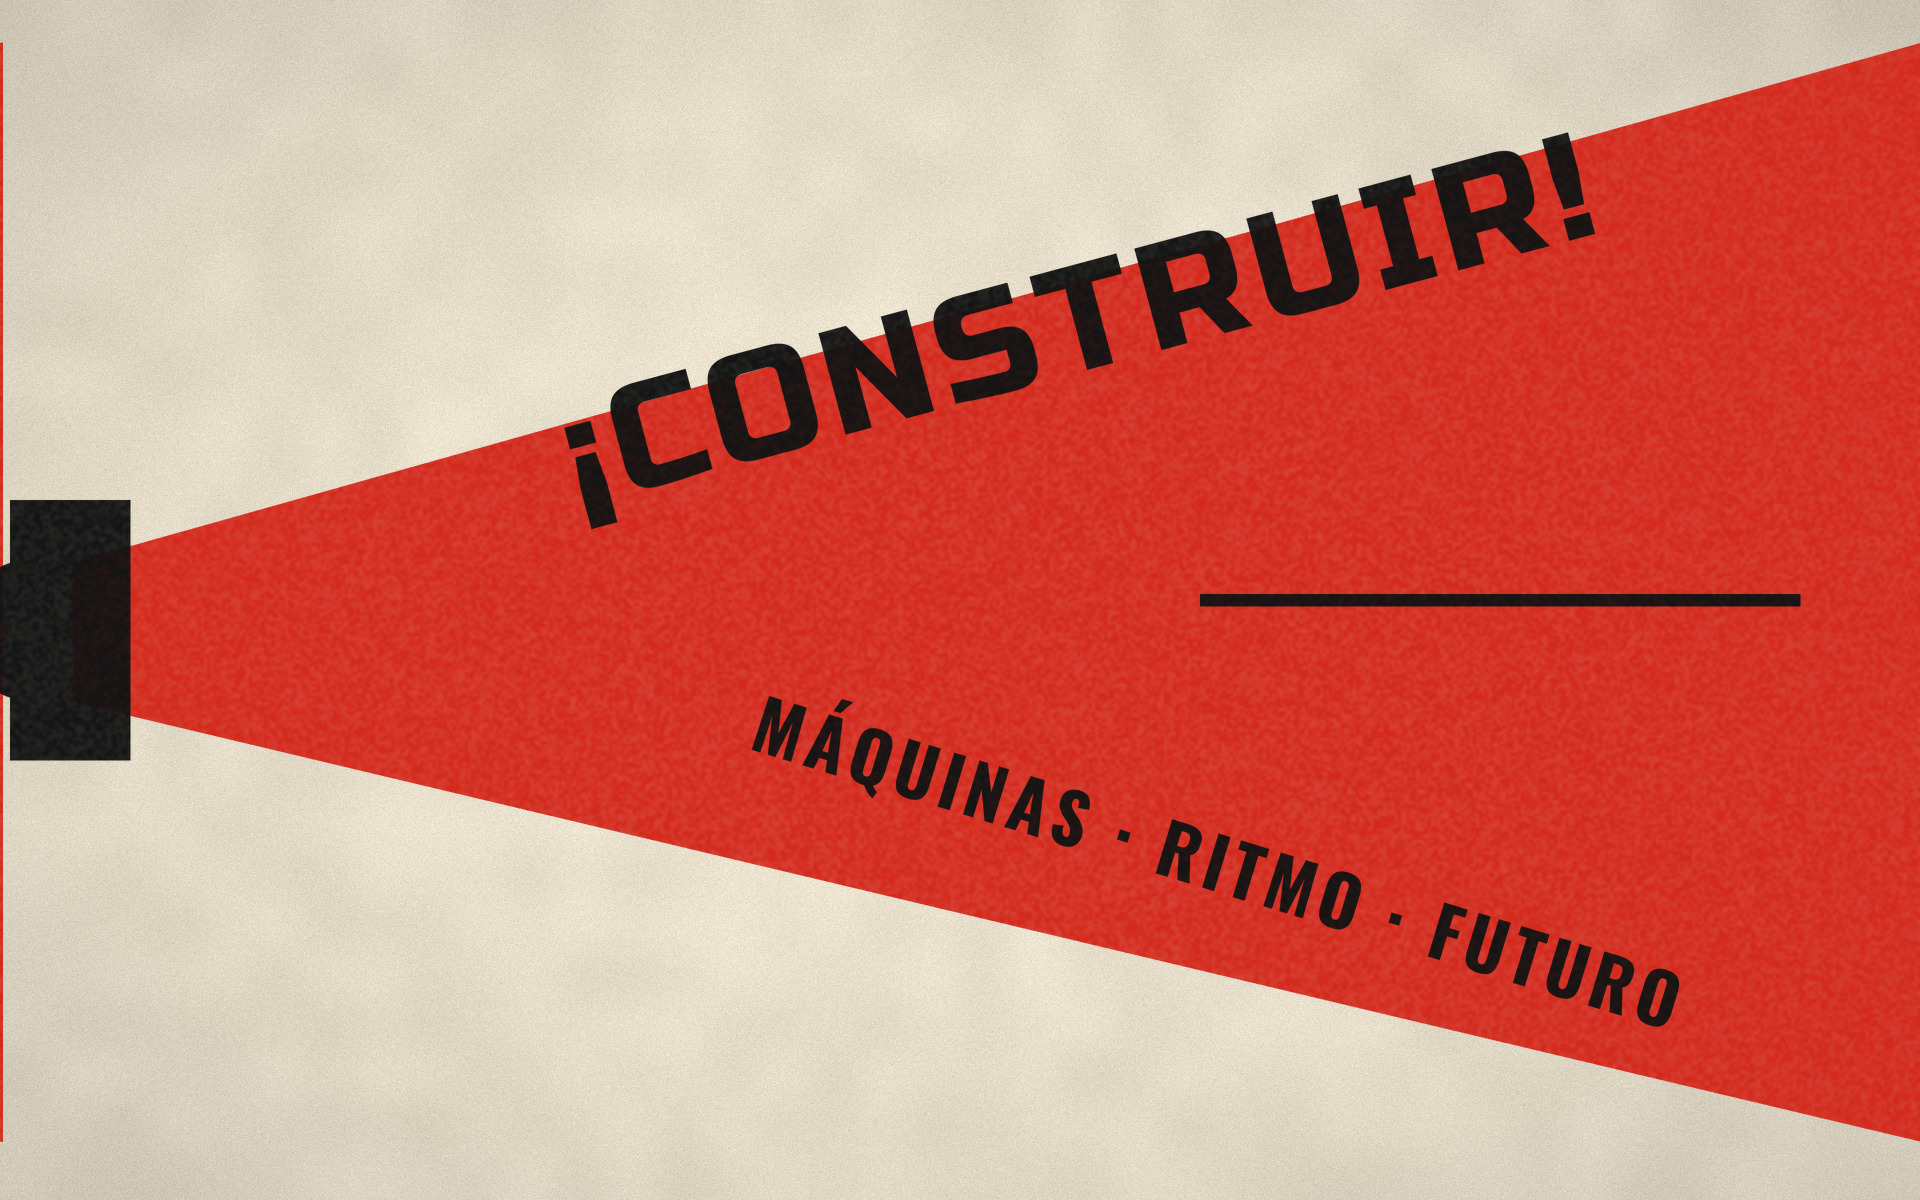
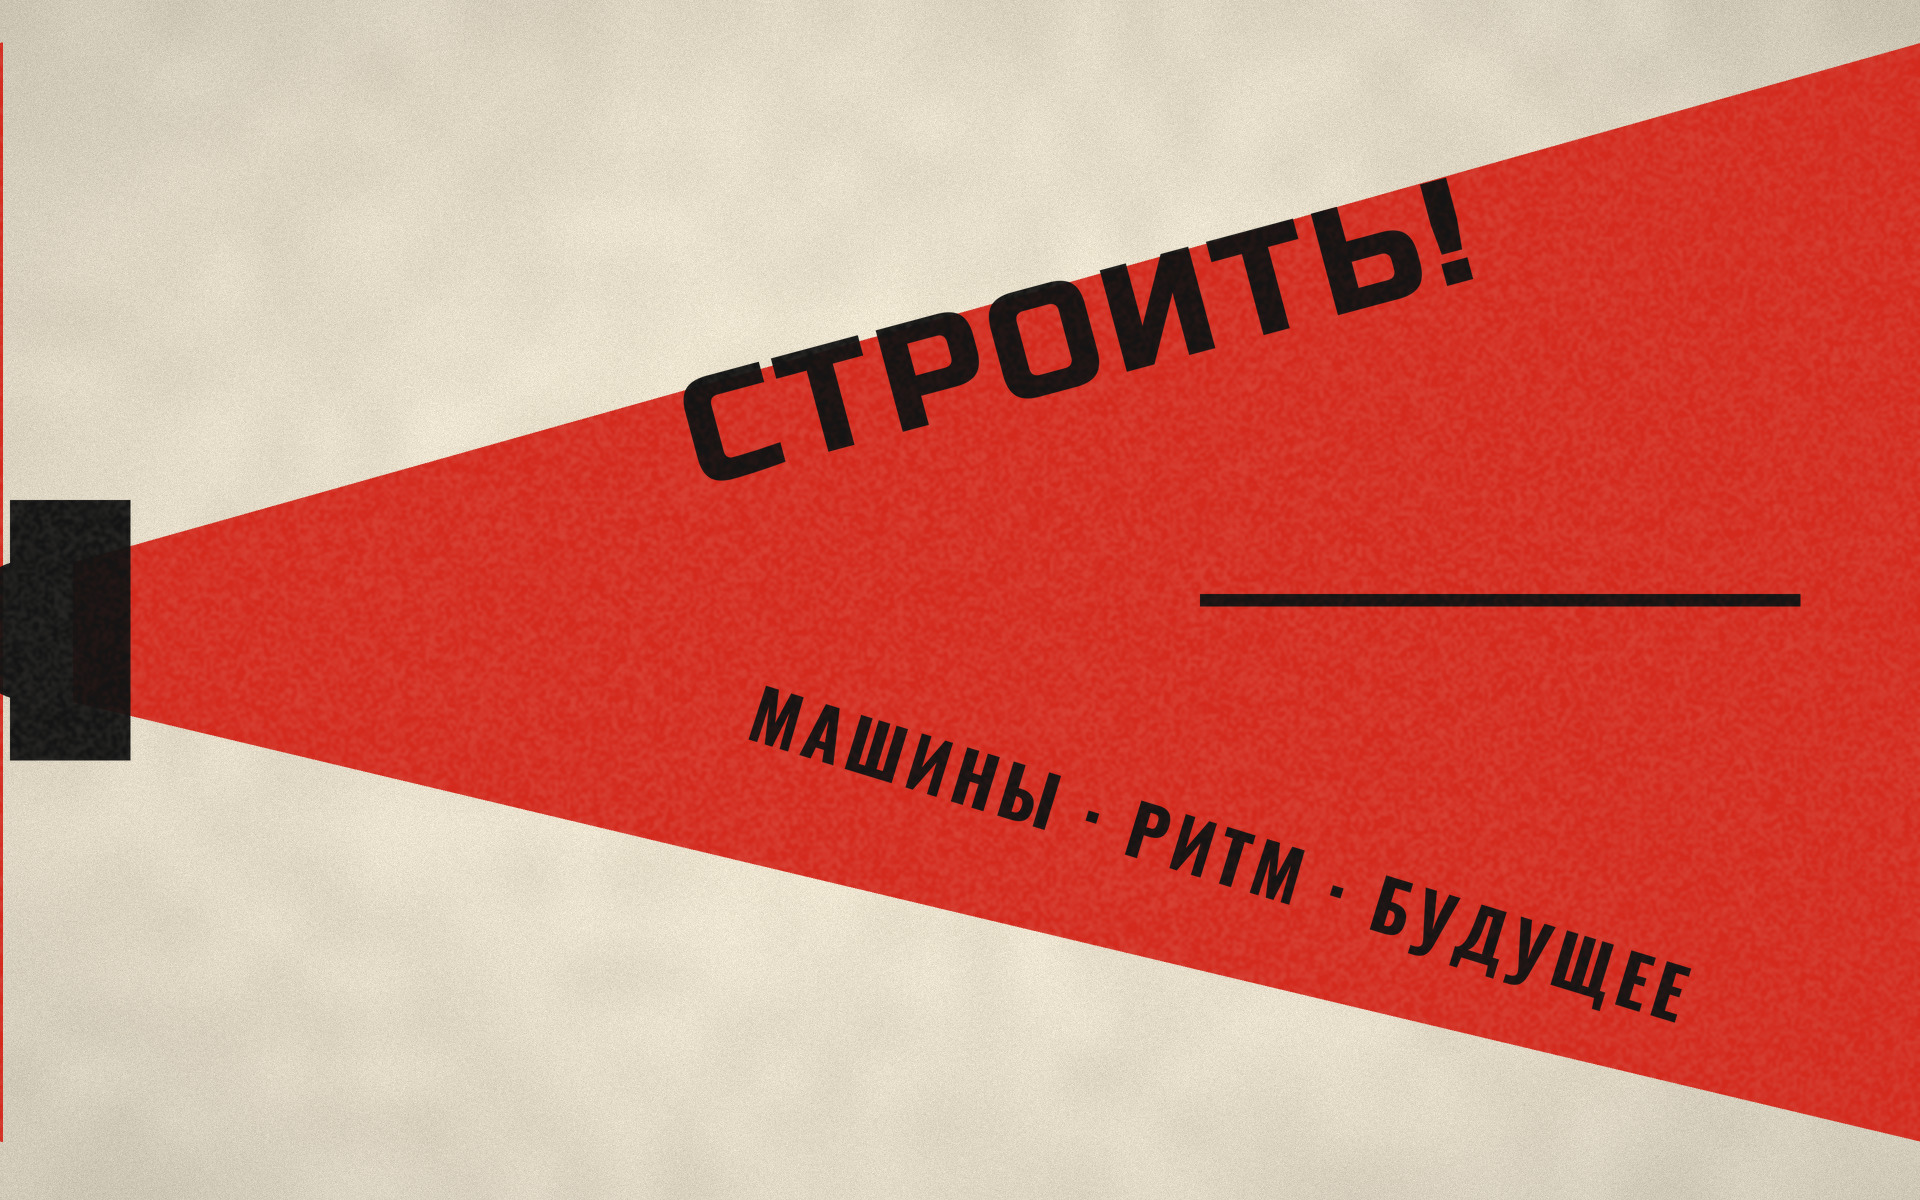
rojo: theme words and wallpapers in Russian
Bar (ЦЕХ, СЕТЬ, ЗВУК, СВЕТ, ЭНЕРГИЯ), launcher, lock screen (ТОВАРИЩ +
transliterated name, Russian date), fastfetch keys, new tab page and all
seven wallpapers. scripts/ru.sh gives Russian dates without a ru_RU
locale. Lock band split in three: hyprlock clips one very wide rotated shape.

Changed region(s): [[0.2812, 0.1233, 0.8438, 0.4317], [0.375, 0.5858, 0.875, 0.8633]]

diff --git a/.config/dotfiles/themes/rojo/firefox/chrome/userContent.css b/.config/dotfiles/themes/rojo/firefox/chrome/userContent.css
@@ -8,7 +8,7 @@
   .outer-wrapper, main { background: transparent !important; }
   .logo-and-wordmark, .logo-and-wordmark-wrapper { display: none !important; }
   .search-wrapper::before {
-    content: "EL TALLER"; display: block; text-align: center; margin-bottom: 26px;
+    content: "ЦЕХ"; display: block; text-align: center; margin-bottom: 26px;
     font: 700 46px "Russo One", sans-serif; letter-spacing: 0.12em; color: #141414;
   }
 }

diff --git a/.config/dotfiles/themes/rojo/waybar/style.css b/.config/dotfiles/themes/rojo/waybar/style.css
@@ -20,7 +20,7 @@ window#waybar {
 tooltip { background: #efe6d2; border: 3px solid #141414; }
 tooltip label { color: #141414; font-family: "PT Sans"; font-size: 13px; }
 
-/* Red wedge with the word, cut diagonally on the right */
+/* Red wedge with the word (ЦЕХ), cut diagonally on the right */
 #custom-taller {
     font-family: "Russo One";
     font-size: 19px;

diff --git a/.config/dotfiles/themes/rojo/wallpapers/constructivismo.py b/.config/dotfiles/themes/rojo/wallpapers/constructivismo.py
@@ -131,7 +131,7 @@ def cuna():
         s.rect("ink", cx, cy, w, h, a)
     s.rect("ink", 1660, 300, 240, 22, -40, erase=True)  # splinters of white in the black
     s.rect("ink", 1720, 900, 140, 18, 25, erase=True)
-    s.text("ink", "CUÑA", 470, 1090, 74, spacing=6)
+    s.text("ink", "КЛИН", 470, 1090, 74, spacing=6)
     s.text("red", "№ 1", 1720, 160, 40, OSWALD)
     s.render("a-cuna")
 
@@ -164,8 +164,8 @@ def torre():
     for r in (60, 110, 160):
         s.d("red").arc([(x0 - r) * SS, (y - 60 - r) * SS, (x0 + r) * SS, (y - 60 + r) * SS], 200, 340, fill=255, width=6 * SS)
     s.rect("red", 360, 600, 120, 1100, -8)
-    s.text("ink", "RADIO", 360, 600, 120, angle=82, spacing=10)
-    s.text("ink", "ONDAS · SEÑAL · DISTANCIA", 520, 1110, 30, OSWALD, spacing=4)
+    s.text("ink", "РАДИО", 360, 600, 120, angle=82, spacing=10)
+    s.text("ink", "ВОЛНЫ · СИГНАЛ · ДАЛЬ", 520, 1110, 30, OSWALD, spacing=4)
     s.render("b-torre")
 
 
@@ -180,7 +180,7 @@ def rayos():
         s.poly("red", [(ox, oy), (ox + R * math.cos(a0), oy + R * math.sin(a0)), (ox + R * math.cos(a1), oy + R * math.sin(a1))])
     s.rect("ink", 1000, 640, 2600, 210, -24)
     s.rect("red", 1000, 640, 2600, 210, -24, erase=True)  # the band hides the rays, so the letters read as paper
-    s.text("ink", "ENERGÍA", 1060, 610, 150, angle=24, spacing=14, erase=True)
+    s.text("ink", "ЭНЕРГИЯ", 1060, 610, 150, angle=24, spacing=14, erase=True)
     s.circle("ink", 1620, 230, 120)
     s.ring("red", 1620, 230, 175, 14)
     s.render("c-rayos")
@@ -192,8 +192,8 @@ def megafono():
     s.poly("red", [(70, 560), (1920, 40), (1920, 1140), (70, 700)])
     s.rect("ink", 70, 630, 120, 260)
     s.circle("ink", 30, 630, 70)
-    s.text("ink", "¡CONSTRUIR!", 1080, 330, 150, angle=15, spacing=8)
-    s.text("ink", "MÁQUINAS · RITMO · FUTURO", 1220, 860, 70, OSWALD, angle=-17, spacing=6)
+    s.text("ink", "СТРОИТЬ!", 1080, 330, 150, angle=15, spacing=8)
+    s.text("ink", "МАШИНЫ · РИТМ · БУДУЩЕЕ", 1220, 860, 70, OSWALD, angle=-17, spacing=6)
     s.rect("ink", 1500, 600, 600, 12, 0)
     s.render("d-megafono")
 
@@ -216,10 +216,10 @@ def tipografia():
     s = Sheet()
     s.text("ink", "04", 760, 640, 820, OSWALD, angle=0)
     s.rect("red", 1440, 600, 300, 1300)
-    s.text("ink", "TRABAJO", 1440, 600, 170, angle=90, spacing=12)
+    s.text("ink", "ТРУД", 1440, 600, 200, angle=90, spacing=16)
     for y in (140, 170, 200):
         s.rect("ink", 380, y, 600, 8)
-    s.text("red", "EL TALLER DEL FUTURO", 380, 1080, 44, OSWALD, spacing=6)
+    s.text("red", "МАСТЕРСКАЯ БУДУЩЕГО", 380, 1080, 44, OSWALD, spacing=6)
     s.render("f-tipografia")
 
 
@@ -237,7 +237,7 @@ def fabrica():
             y0 = ground - h - 40 - k * 70
             s.rect("red", x + 380 + k * 60, y0 - k * 30, 760, 34, -14 - i * 4)
     s.circle("red", 1640, 260, 150)
-    s.text("ink", "PRODUCCIÓN", 1450, 1050, 92, angle=0, spacing=10, erase=True)
+    s.text("ink", "ПРОИЗВОДСТВО", 1340, 1050, 92, angle=0, spacing=10, erase=True)
     s.render("g-fabrica")
 
 

diff --git a/.github/README.md b/.github/README.md
@@ -73,8 +73,8 @@ nubes, degradado de instalación, patrones de 8×8 y arenisca. Primera vez: `~/.
 ## rojo: constructivismo
 
 Un cartel de los años 20 (Ródchenko, Lisitski, Klutsis): tres tintas, papel crema, negro y rojo. Barra como
-franja negra con bloques rojos cortados en diagonal ("TALLER", escritorios en numerales, reloj en un paralelogramo de
-papel, lecturas "RED / VOZ / LUZ / ENERGÍA"); ventanas con marco rojo grueso y sombra de tinta dura desplazada;
+franja negra con bloques rojos cortados en diagonal ("ЦЕХ", escritorios en numerales, reloj en un paralelogramo de
+papel, lecturas "СЕТЬ / ЗВУК / СВЕТ / ЭНЕРГИЯ"); todo el texto del tema en ruso (`scripts/ru.sh` pone fechas y nombre en cirílico sin locale ruso); ventanas con marco rojo grueso y sombra de tinta dura desplazada;
 animaciones mecánicas con rebote; terminal de papel e tinta con PT Mono; notificaciones y lanzador como tarjetas con
 marco de tinta; bloqueo compuesto como un cartel; Firefox con pestañas en paralelogramo; carpetas rojas (Papirus).
 
